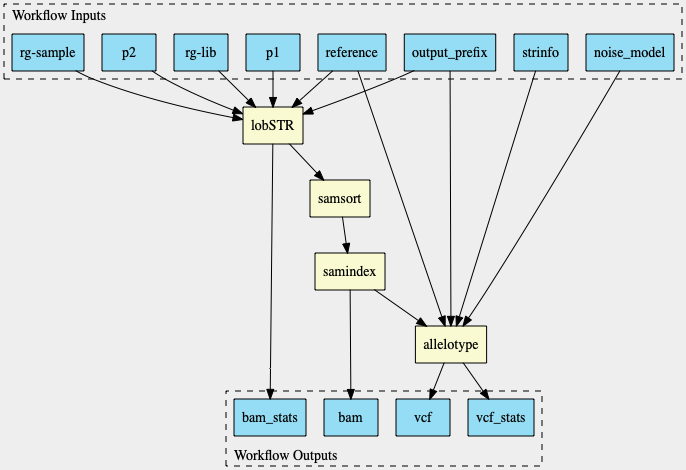
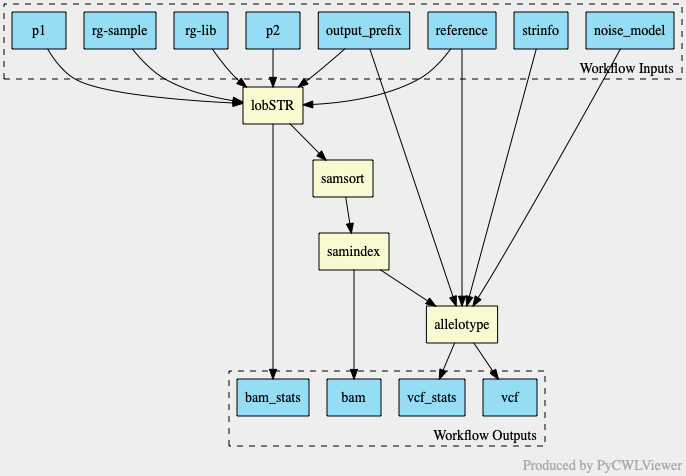
fix for jupyter notebook

diff --git a/pycwlviewer/cwlviewer.py b/pycwlviewer/cwlviewer.py
@@ -1,7 +1,8 @@
 #!/usr/bin/env python
+import logging
 from pathlib import Path
-from io import StringIO
-from typing import List, Optional
+from io import StringIO, BytesIO
+from typing import List, Optional, Union
 import sys
 
 import rdflib
@@ -33,8 +34,10 @@ class CWLViewer:
         self._set_output_edges()
 
     def _cwl2rdf(self) -> str:
+        console_handler = logging.StreamHandler()
+        console_handler.setLevel(logging.INFO)
         stdout = StringIO()
-        cwltool_main(['--print-rdf', str(self._filename)], stdout=stdout)
+        cwltool_main(['--print-rdf', str(self._filename)], stdout=stdout, logger_handler=console_handler)
         return stdout.getvalue()
 
     def _load_cwl_graph(self) -> rdflib.graph.Graph:
@@ -114,11 +117,18 @@ class CWLViewer:
         graph.graph_attr['labeljust'] = "left"
         graph.graph_attr['clusterrank'] = "local"
         graph.node_attr['shape'] = "record"
+        graph.graph_attr['label'] = "<<font color='#AAAAAA'>Produced by PyCWLViewer</font>>"
+        graph.graph_attr['labelloc'] = "bottom"
+        graph.graph_attr['labeljust'] = "right"
+
         return graph
 
-    def draw(self, filename: Path, graphviz_layout: str = 'dot'):
+    def draw(self, filename: Union[Path, BytesIO], graphviz_layout: str = 'dot'):
         self._dot_graph.layout(prog=graphviz_layout)
-        self._dot_graph.draw(str(filename))
+        if isinstance(filename, Path):
+            self._dot_graph.draw(str(filename))
+        else:
+            self._dot_graph.draw(filename, "png")
 
     def dot(self):
         return self._dot_graph.to_string()
